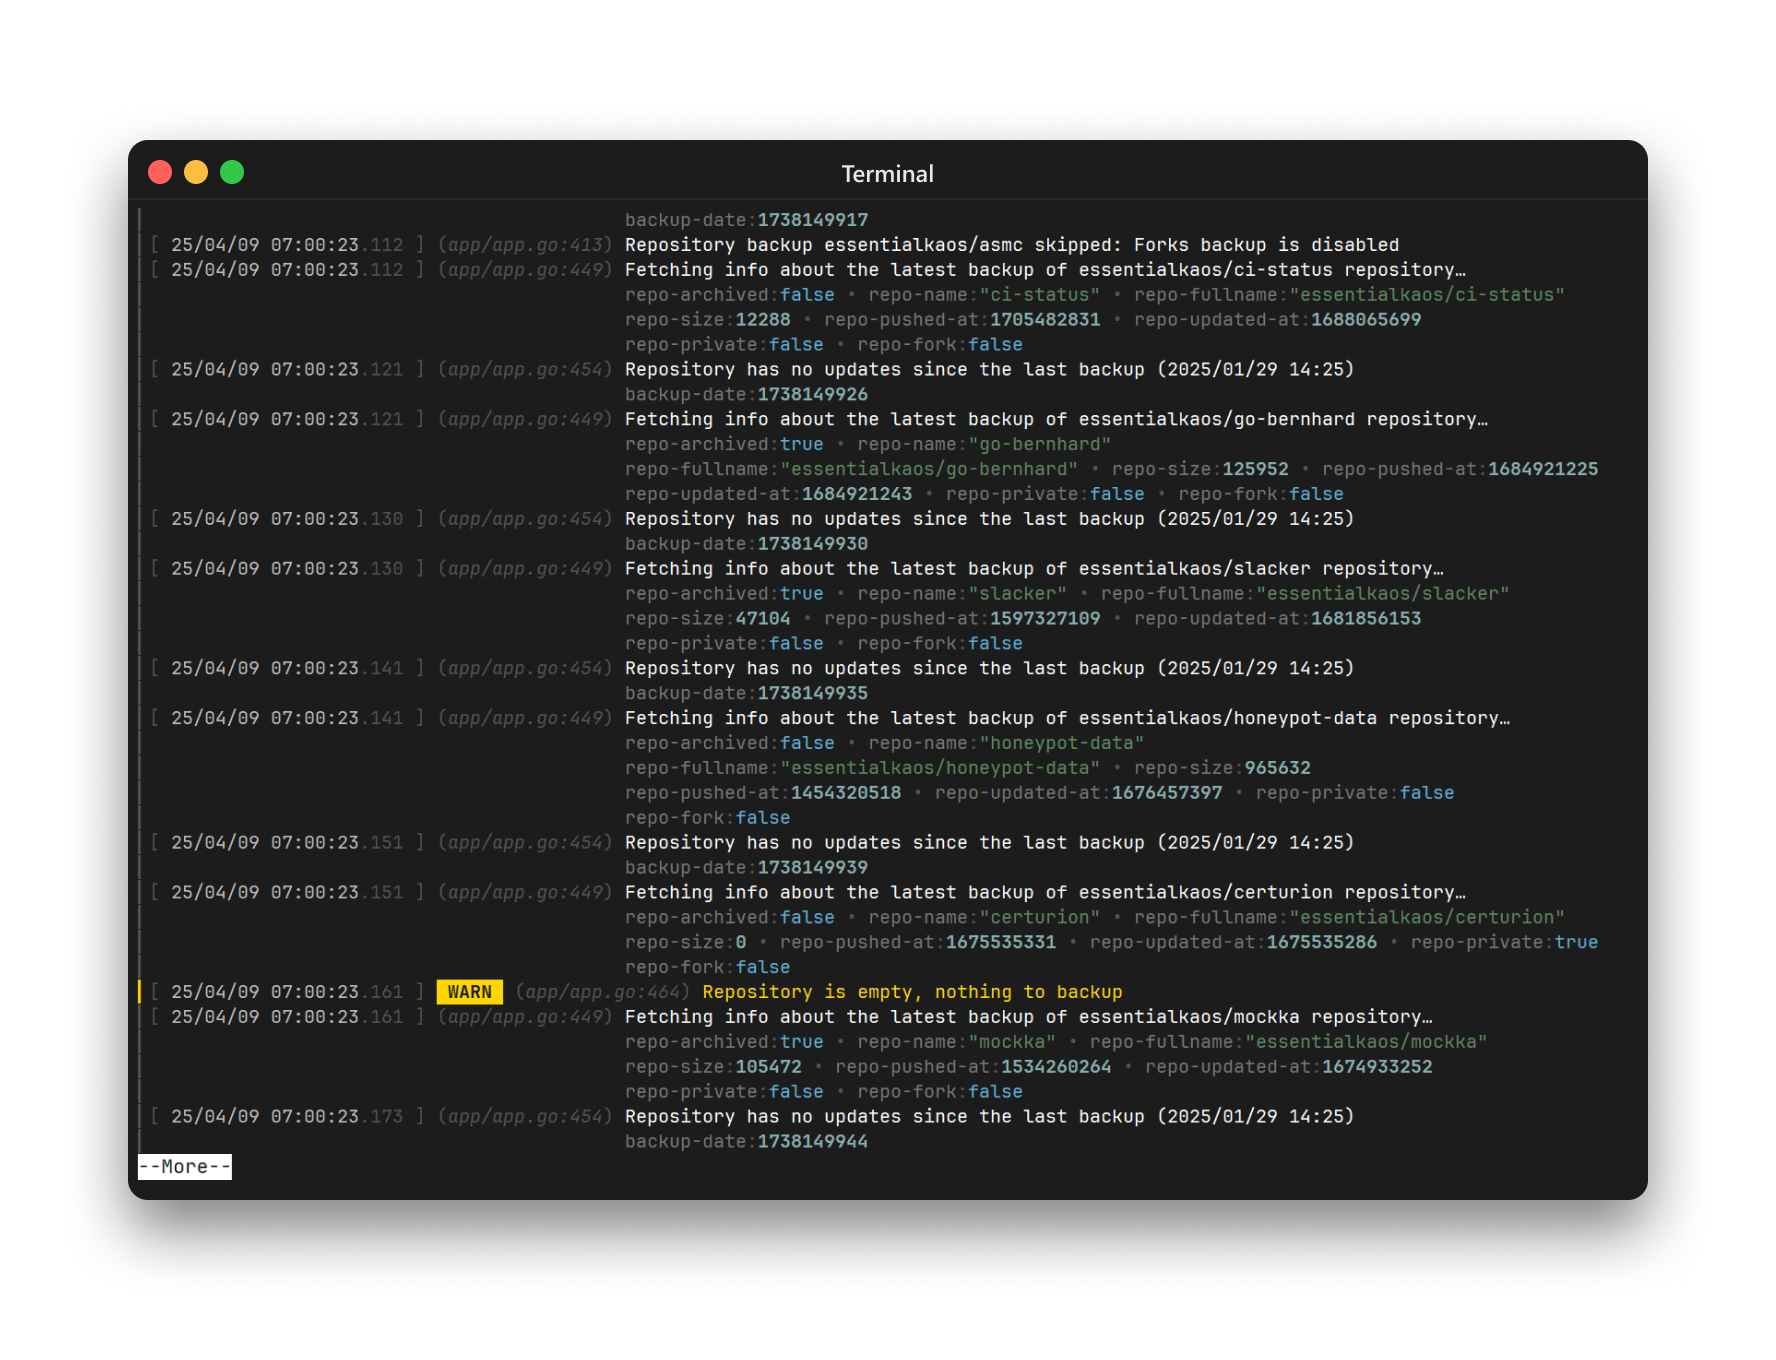
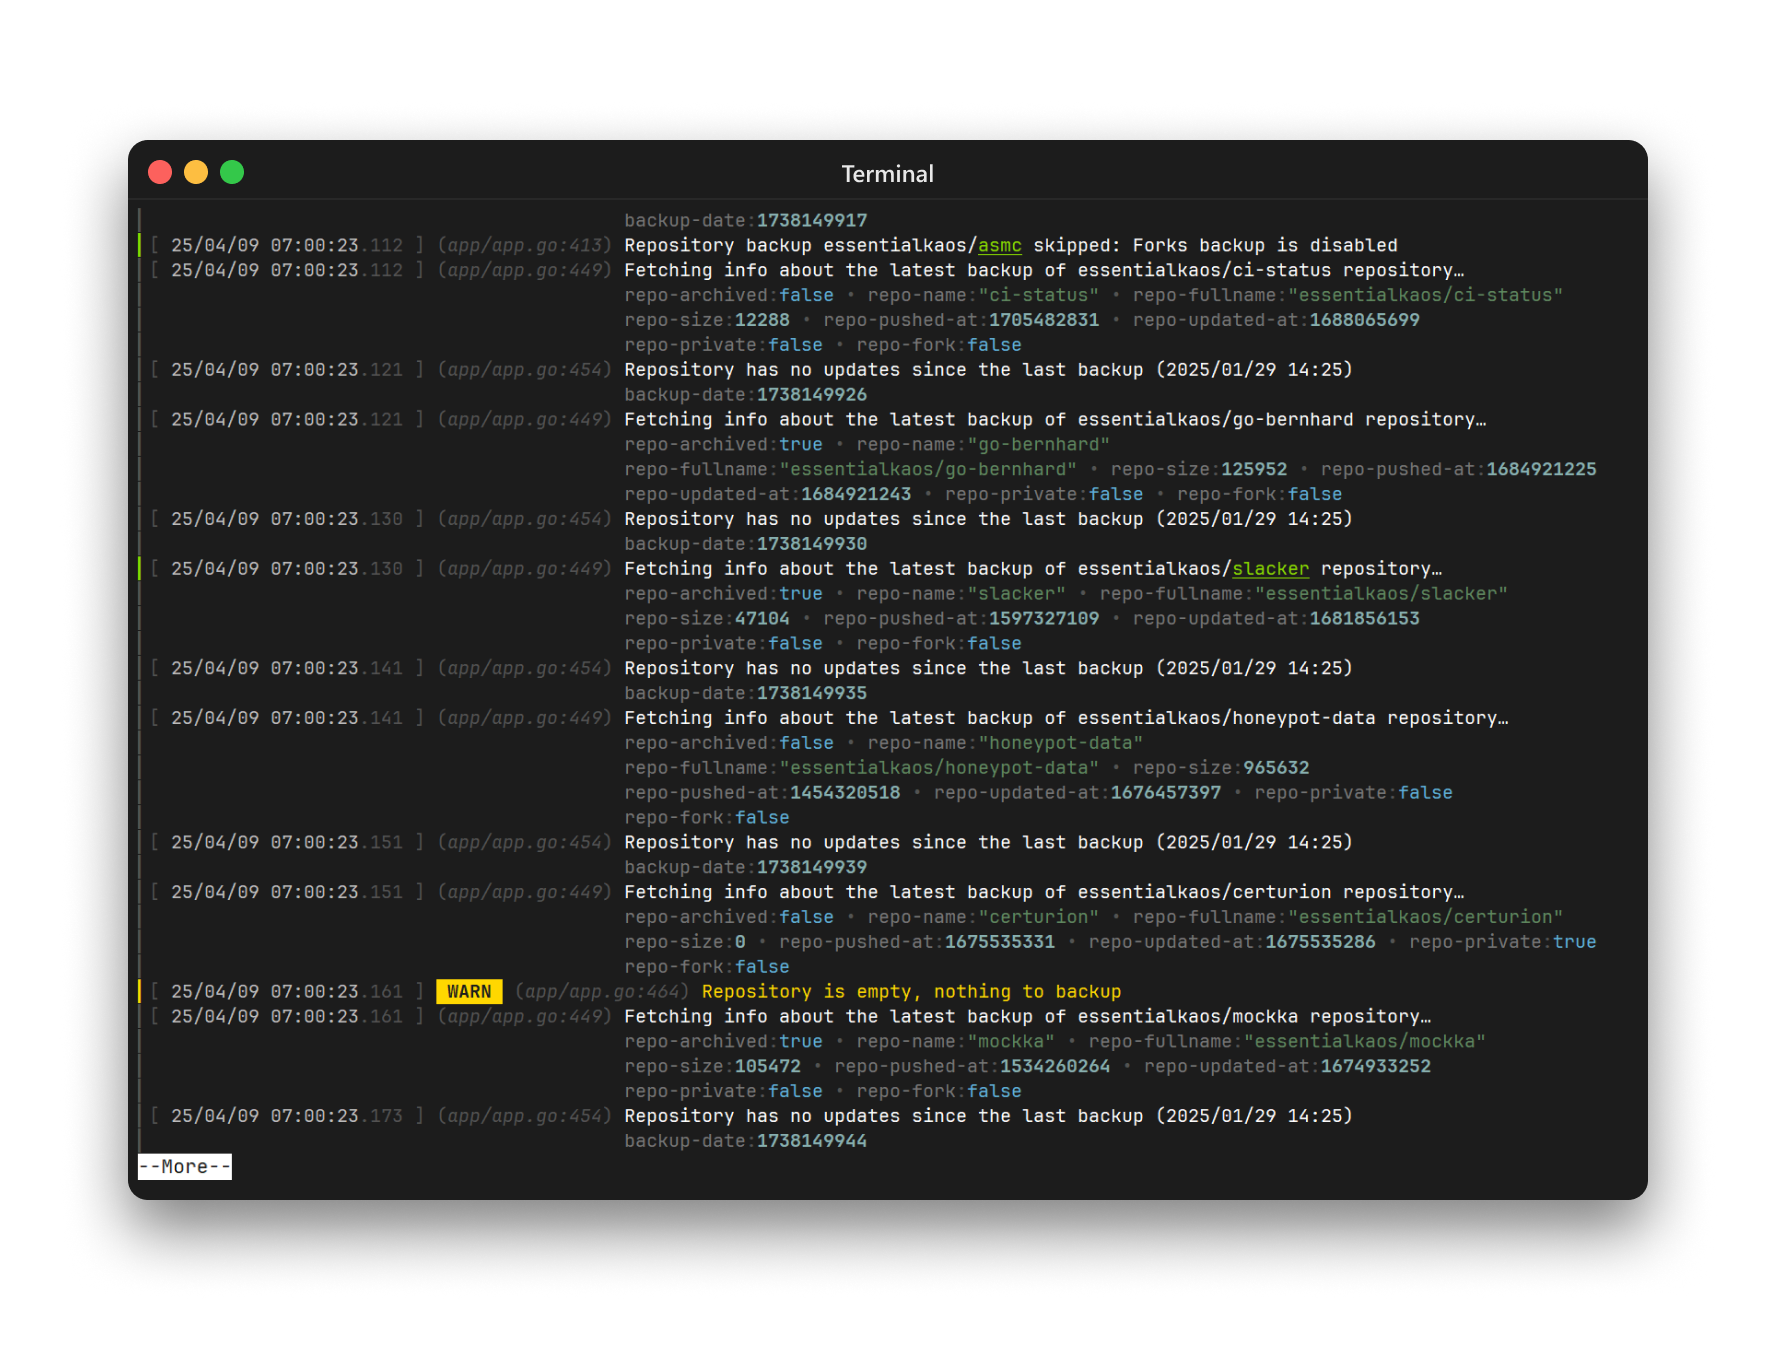
Add highlighting feature

diff --git a/cli/cli.go b/cli/cli.go
@@ -50,6 +50,7 @@ const (
 	OPT_PAGER    = "P:pager"
 	OPT_FOLLOW   = "F:follow"
 	OPT_STRICT   = "S:strict"
+	OPT_FIND     = "f:find"
 	OPT_NO_COLOR = "nc:no-color"
 	OPT_HELP     = "h:help"
 	OPT_VER      = "v:version"
@@ -85,6 +86,7 @@ var optMap = options.Map{
 	OPT_FOLLOW:   {Type: options.BOOL},
 	OPT_PAGER:    {Type: options.BOOL},
 	OPT_STRICT:   {Type: options.BOOL},
+	OPT_FIND:     {Mergeble: true},
 	OPT_NO_COLOR: {Type: options.BOOL},
 	OPT_HELP:     {Type: options.BOOL},
 	OPT_VER:      {Type: options.MIXED},
@@ -135,6 +137,9 @@ var labels = map[string]string{
 
 // strictMode strict mode flag
 var strictMode bool
+
+// highlights is slice with texts to highlight
+var highlights Highlights
 
 // ////////////////////////////////////////////////////////////////////////////////// //
 
@@ -200,6 +205,8 @@ func preConfigureUI() {
 	fmtutil.SeparatorColorTag = "{s-}"
 	fmtutil.SeparatorTitleColorTag = "{s-}"
 	fmtutil.SeparatorTitleAlign = "c"
+
+	options.MergeSymbol = "\n"
 }
 
 // configureUI configures user interface
@@ -218,6 +225,10 @@ func process(args options.Arguments) error {
 	}
 
 	strictMode = options.GetB(OPT_STRICT)
+
+	if options.Has(OPT_FIND) {
+		highlights = Highlights(strings.Split(options.GetS(OPT_FIND), "\n"))
+	}
 
 	if options.GetB(OPT_FOLLOW) {
 		readDataStream(source, parseFilters(filters))
@@ -350,8 +361,19 @@ func renderLine(line string, filters Filters) bool {
 	}
 
 	recDate := time.UnixMicro(int64(ts * 1_000_000))
+	markerColor := markerColors[level]
 
-	fmtc.Print(markerColors[level] + "▎{!}")
+	if len(highlights) > 0 {
+		var found bool
+
+		msg, found = highlights.Apply(msg)
+
+		if found {
+			markerColor = "{#112}"
+		}
+	}
+
+	fmtc.Print(markerColor + "▎{!}")
 
 	fmtc.Printf(
 		"{s-}[ {s}%s{s-}.%s ]{!} ",
@@ -485,6 +507,7 @@ func genUsage() *usage.Info {
 	info.AddOption(OPT_FOLLOW, "Read log stream")
 	info.AddOption(OPT_PAGER, "Paginate output")
 	info.AddOption(OPT_STRICT, "Don't print non-JSON data")
+	info.AddOption(OPT_FIND, "Find and highlight part of message {s}(repeatable){!}")
 	info.AddOption(OPT_NO_COLOR, "Disable colors in output")
 	info.AddOption(OPT_HELP, "Show this help message")
 	info.AddOption(OPT_VER, "Show version")
@@ -510,8 +533,8 @@ func genUsage() *usage.Info {
 	)
 
 	info.AddRawExample(
-		"kubectl logs -f mypod | lj -F",
-		"Read log from k8s pod",
+		"kubectl logs -f mypod | lj -F -f update -f insert",
+		"Read log from k8s pod and highlight lines with \"update\" and \"insert\"",
 	)
 
 	info.AddRawExample(

diff --git a/cli/filter.go b/cli/filter.go
@@ -11,6 +11,7 @@ import (
 	"strconv"
 	"strings"
 
+	"github.com/essentialkaos/ek/v13/fmtc"
 	"github.com/tidwall/gjson"
 )
 
@@ -35,6 +36,9 @@ type Filter struct {
 
 // Filters is a slice of filters
 type Filters []Filter
+
+// Highlights is a slice of highlights
+type Highlights []string
 
 // ////////////////////////////////////////////////////////////////////////////////// //
 
@@ -126,4 +130,18 @@ func (f Filters) IsMatch(fields map[string]gjson.Result) bool {
 	}
 
 	return true
+}
+
+// Apply applies highlights to given message
+func (h Highlights) Apply(msg string) (string, bool) {
+	var found bool
+
+	for _, hh := range h {
+		if strings.Contains(msg, hh) {
+			msg = strings.ReplaceAll(msg, hh, fmtc.Sprint("{#112}{_}"+hh+"{!}"))
+			found = true
+		}
+	}
+
+	return msg, found
 }
